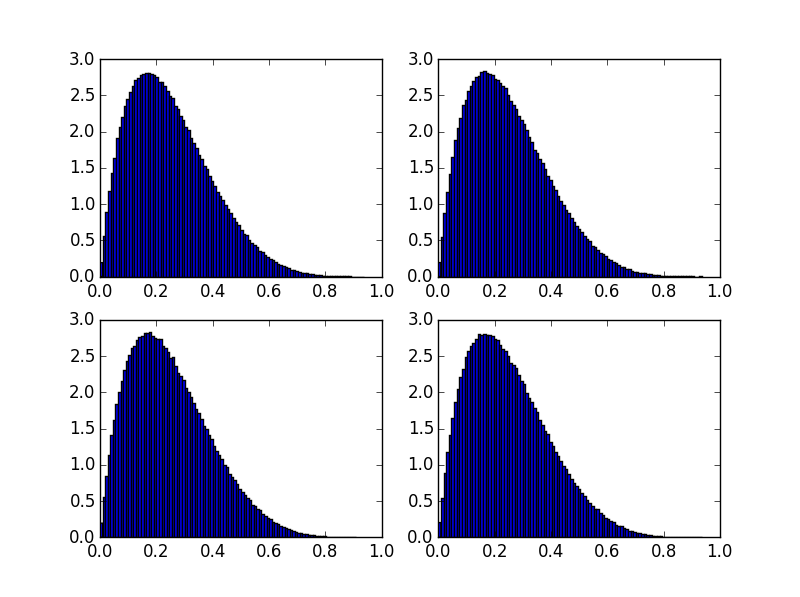
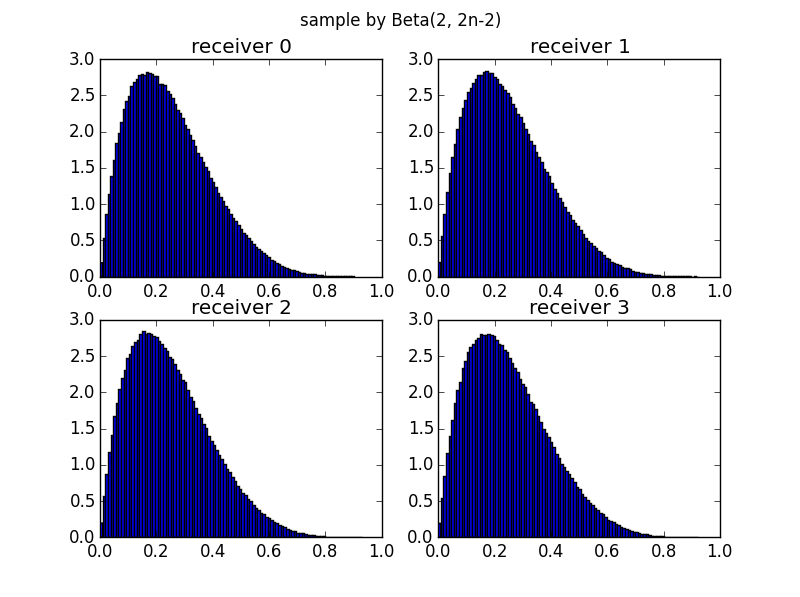
add image title

diff --git a/main.py b/main.py
@@ -43,9 +43,14 @@ def visualize(sample):
     n_col = sample.shape[1]
     f, axarr = plt.subplots(2, 2)
     axarr[0, 0].hist(sample[:, 0], bins=100, normed=1)
+    axarr[0, 0].set_title('receiver 0')
     axarr[0, 1].hist(sample[:, n_col/3], bins=100, normed=1)
+    axarr[0, 1].set_title('receiver 1')
     axarr[1, 0].hist(sample[:, 2 * n_col/3], bins=100, normed=1)
+    axarr[1, 0].set_title('receiver 2')
     axarr[1, 1].hist(sample[:, -1], bins=100, normed=1)
+    axarr[1, 1].set_title('receiver 3')
+    plt.suptitle('sample by Beta(2, 2n-2)')
     plt.show()
 
 
